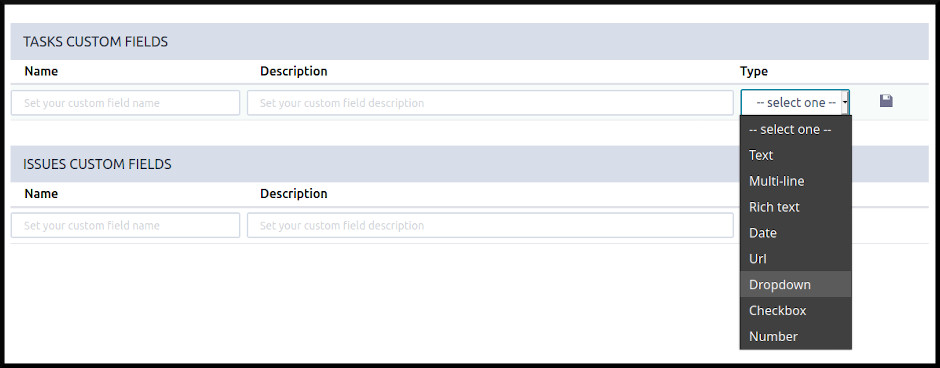
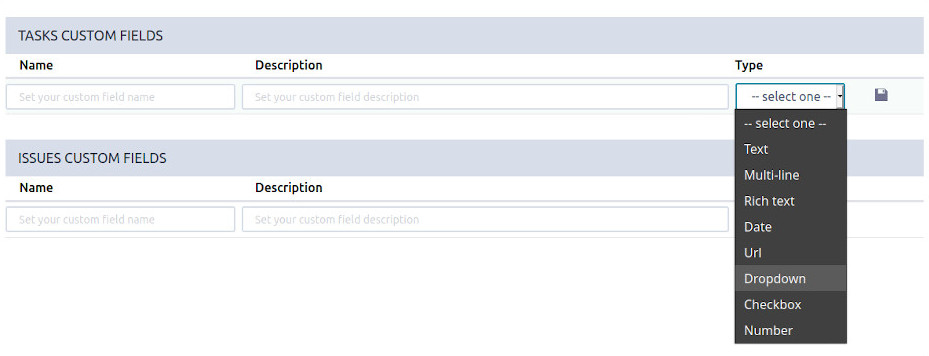
first test with 30min setup, markdown and images. Minor changes in styles for pics

Changed region(s): [[0.0, 0.0, 1.0, 1.0]]

diff --git a/taiga-resources/themes/liva-hugo-master/assets/scss/_common.scss b/taiga-resources/themes/liva-hugo-master/assets/scss/_common.scss
@@ -25,7 +25,8 @@ body {
 
 img {
   vertical-align: middle;
-  border: 0;
+  border: 2px;
+  border-style: solid;
 }
 
 a,

diff --git a/taiga-resources/content/30min-setup.md b/taiga-resources/content/30min-setup.md
@@ -2,7 +2,173 @@
 title: "30min Setup"
 date: 2020-10-05T11:22:38+02:00
 draft: false
-image: "images/post/post-2.jpg"
+image: "/images/30minsetup_test04.jpg"
 ---
 
-Page for 30min setup
+# Introduction
+
+This document explains how to deploy a full Taiga service for a production environment. A Taiga service consists of multiple Taiga modules which altogether make the Taiga platform.
+
+The standard Taiga platform consists of three main modules, 
+and each one has its own dependencies both at compile time and runtime:
+
+- **taiga-back** (backend/API)
+- **taiga-front-dist** (frontend)
+- **taiga-events** (websockets gateway) (optional)
+
+Each module can be run on a unique machine or all of them can be installed to a different machine as well.
+In this tutorial we will setup everything on a single machine, and will be installing all three main Taiga modules. +
+This type of setup should suffice for small/medium production environments with low traffic.
+
+{{< figure src="/images/30minsetup_test01.jpg" caption="Example of big screenshot" alt="Example of big screenshot" width="100%" >}}
+
+
+# Overview
+
+This tutorial assumes that you are using a clean, recently updated **Ubuntu 16.04** image.
+
+Due to the nature of the frontend, Taiga is accessed through a domain/public IP address, because the frontend application runs in your browser.
+The frontend must be able to communicate with the backend/API, therefore both the frontend and the backend must be accessible through a domain/public IP address too.
+
+{{< figure src="/images/30minsetup_test02.jpg" caption="Example of medium screenshot" alt="Example of medium screenshot" width="100%" >}}
+
+
+**Taiga installation must be done with a "regular" user, never with root!**
+
+During the tutorial, the following conditions are assumed:
+
+- **IP:** `80.88.23.45`
+- **Hostname:** `example.com` (which points to 80.88.23.45)
+- **Username:** `taiga`
+- **System memory:** `>=1GB` (needed for compilation of lxml)
+- **Working directory:** `/home/taiga/` (default for user `taiga`)
+
+Changing the user from `taiga` to something else is not recommended at any point during deployment unless you're well aware of what you're doing. +
+Changing user may result in unexpected behavior or failed deployment!
+
+{{< figure src="/images/30minsetup_test03.jpg" caption="Example of small screenshot" alt="Example of small screenshot"  >}}
+
+
+## Dependencies
+
+The typical Taiga setup described in this documentation depends on the following standalone major software installed separately from Taiga:
+
+- https://www.python.org/[Python 3] - programming language and runtime environment of **taiga-back**
+- https://www.nginx.com/[NGINX] - web server and reverse proxy
+- https://www.postgresql.org[PostgreSQL] - database
+- https://gunicorn.org[Gunicorn] - Python WSGI HTTP server
+- https://www.rabbitmq.com[RabbitMQ] - message broker
+- https://redis.io[Redis] - in-memory key-value database
+- https://nodejs.org/en[Node.js] - JavaScript runtime (required if **taiga-events** is present)
+- https://virtualenv.pypa.io/[Virtualenv] and https://virtualenvwrapper.readthedocs.io[virtualenvwrapper] - Python virtual environment managers
+
+
+[NOTE]
+This list does not contain libraries and the Python dependencies required by **taiga-back**. For Python dependencies, refer to https://github.com/taigaio/taiga-back/blob/stable/requirements.txt[taiga-back/stable/requirements.txt].
+
+## System Architecture Description
+
+This is a short system architecture description to help you understand the way Taiga is built and works.
+Before you go any further in the installation procedure, make sure you read this description to get a high-level overview of the architecture.
+
+Taiga consists of 2 core modules:
+
+- **taiga-back**
+- **taiga-front**
+
+**taiga-back** is built with https://www.djangoproject.com[Django] and written in Python 3. This serves the API endpoints for the frontend. +
+**taiga-front** is written mostly in https://angularjs.org[AngularJS] and https://coffeescript.org[CoffeeScript]. This consumes the API endpoints provided by the backend.
+
+The Python backend is exposed by gunicorn (port `8001/tcp`), which is a https://en.wikipedia.org/wiki/Web_Server_Gateway_Interface[Python WSGI HTTP server]. The process manager is https://systemd.io[systemd], which runs gunicorn and taiga-back together.
+Technically the backend communicates with the https://en.wikipedia.org/wiki/Relational_database[RDBMS], and through the frontend it allows the user to use the features of Taiga.
+The communication between the front- and backend is done using REST APIs.
+
+The **backend** is publicly exposed by NGINX which acts as a reverse-proxy in this case. +
+The **frontend** is located in the `dist` folder and is also exposed publicly by NGINX which acts as a static webserver in this case.
+
+# Prerequisites
+
+This guide describes a configuration of Taiga which consists of three Taiga modules. Each module has its own dependencies on various packages. +
+The following subsections list the required packages and provide instructions on their installation and configuration for a successful Taiga deployment.
+
+## Installing Dependencies
+
+Execute the following commands to install all dependencies for all modules. Optional dependencies are marked with an inline comment, i.e.: `# Optional: taiga-events`.
+
+#### Essential packages:
+
+```
+sudo apt-get update
+sudo apt-get install -y build-essential binutils-doc autoconf flex bison libjpeg-dev
+sudo apt-get install -y libfreetype6-dev zlib1g-dev libzmq3-dev libgdbm-dev libncurses5-dev
+sudo apt-get install -y automake libtool curl git tmux gettext
+sudo apt-get install -y nginx
+sudo apt-get install -y rabbitmq-server redis-server  # Optional: taiga-events or async tasks
+```
+
+#### The **taiga-back** module depends on PostgreSQL (>= 9.4) as its database:
+```
+sudo apt-get install -y postgresql-9.5 postgresql-contrib-9.5
+sudo apt-get install -y postgresql-doc-9.5 postgresql-server-dev-9.5
+```
+
+#### Python 3 must be installed along with a few third-party libraries:
+```
+sudo apt-get install -y python3 python3-pip python3-dev virtualenvwrapper
+sudo apt-get install -y libxml2-dev libxslt-dev
+sudo apt-get install -y libssl-dev libffi-dev
+```
+
+
+> **virtualenvwrapper** helps keeping the system clean of third party libraries, installed
+with the language package manager by installing these packages in an isolated virtual environment.
+
+Restart the shell or type `bash` and press `Enter` to reload the shell environment with the new virtualenvwrapper variables and functions.
+
+
+**This step is mandatory before continuing with the deployment!**
+
+
+#### Create a user with root privileges named `taiga`:
+```
+sudo adduser taiga
+sudo adduser taiga sudo
+sudo su taiga
+cd ~
+```
+
+> Do **not** change to the root user (`uid=0`) at this point! +
+Taiga deployment must be finished with the `taiga` user!
+
+## Configuring Dependencies
+
+#### Configure PostgreSQL with the initial user and database:
+```
+sudo -u postgres createuser taiga
+sudo -u postgres createdb taiga -O taiga --encoding='utf-8' --locale=en_US.utf8 --template=template0
+```
+
+#### Create a user named `taiga`, and a virtualhost for RabbitMQ (Optional: taiga-events or async tasks)
+```
+sudo rabbitmqctl add_user taiga PASSWORD_FOR_EVENTS
+sudo rabbitmqctl add_vhost taiga
+sudo rabbitmqctl set_permissions -p taiga taiga ".*" ".*" ".*"
+```
+
+> As the password will be used inside an URL later, please use only web safe
+characters: a-z, A-Z, 0-9, and  - . _ ~
+
+# Backend Setup
+
+This section describes the installation and configuration of the *taiga-back* module which serves the REST API endpoints.
+
+### Download the code:
+
+```
+cd ~
+git clone https://github.com/taigaio/taiga-back.git taiga-back
+cd taiga-back
+git checkout stable
+```
+
+{{< figure src="/images/30minsetup_test04.jpg" caption="Example of big screenshot" alt="Example of big screenshot" width="100%" >}}

diff --git a/taiga-resources/content/faqs/settings-customfields.md b/taiga-resources/content/faqs/settings-customfields.md
@@ -17,7 +17,7 @@ Taiga includes optional custom fields in its administration panel. It will provi
 Users with administration permissions will be able to create new custom fields for their project Epics, User Stories, Subtasks and Issues.
 
 
-{{< figure src="/faqs/images/settings-customfields.jpg" caption="Example of the different custom fields options" alt="Example of the different custom fields options" >}}
+{{< figure src="/faqs/images/settings-customfields.jpg" caption="Example of the different custom fields options" alt="Example of the different custom fields options" width="100%" >}}
 
 Simply go to your Project Admin section > Attributes > Custom fields and add, remove or edit any of those for your choice of Taiga entities.
 
